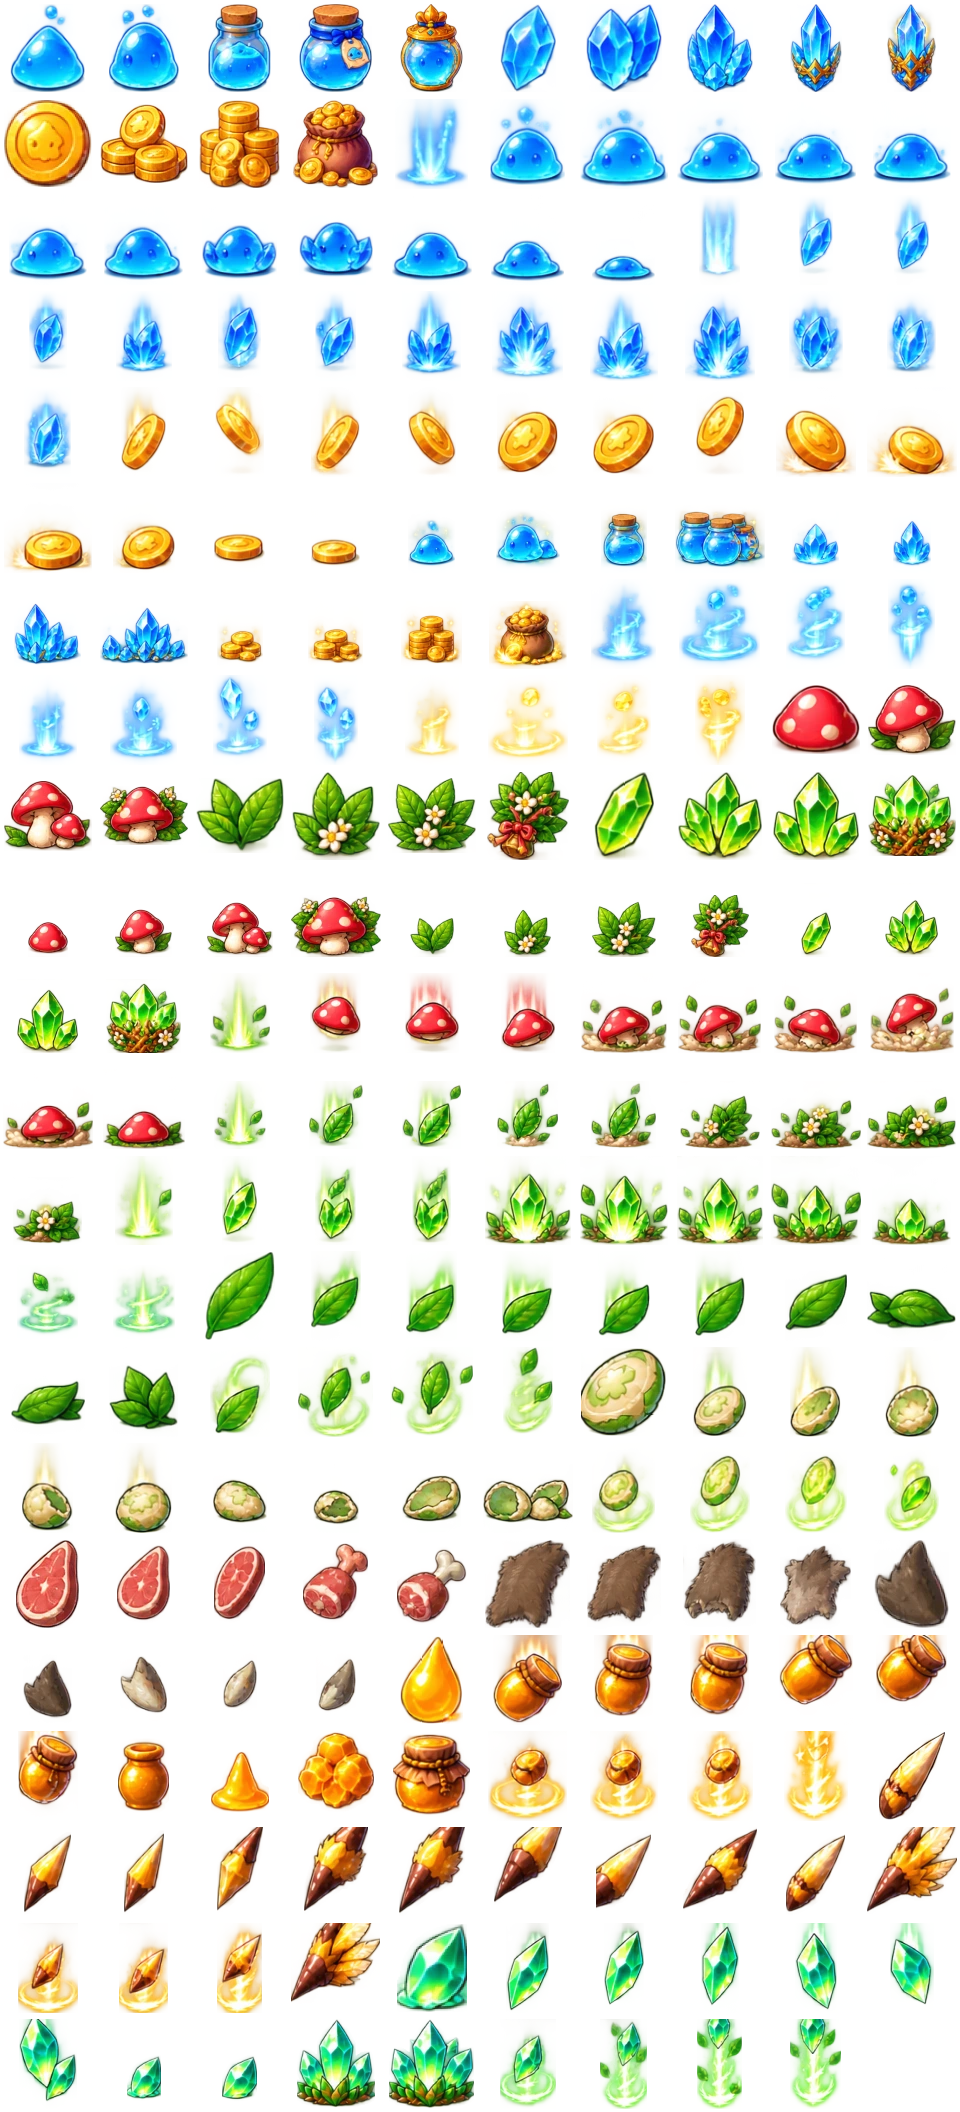
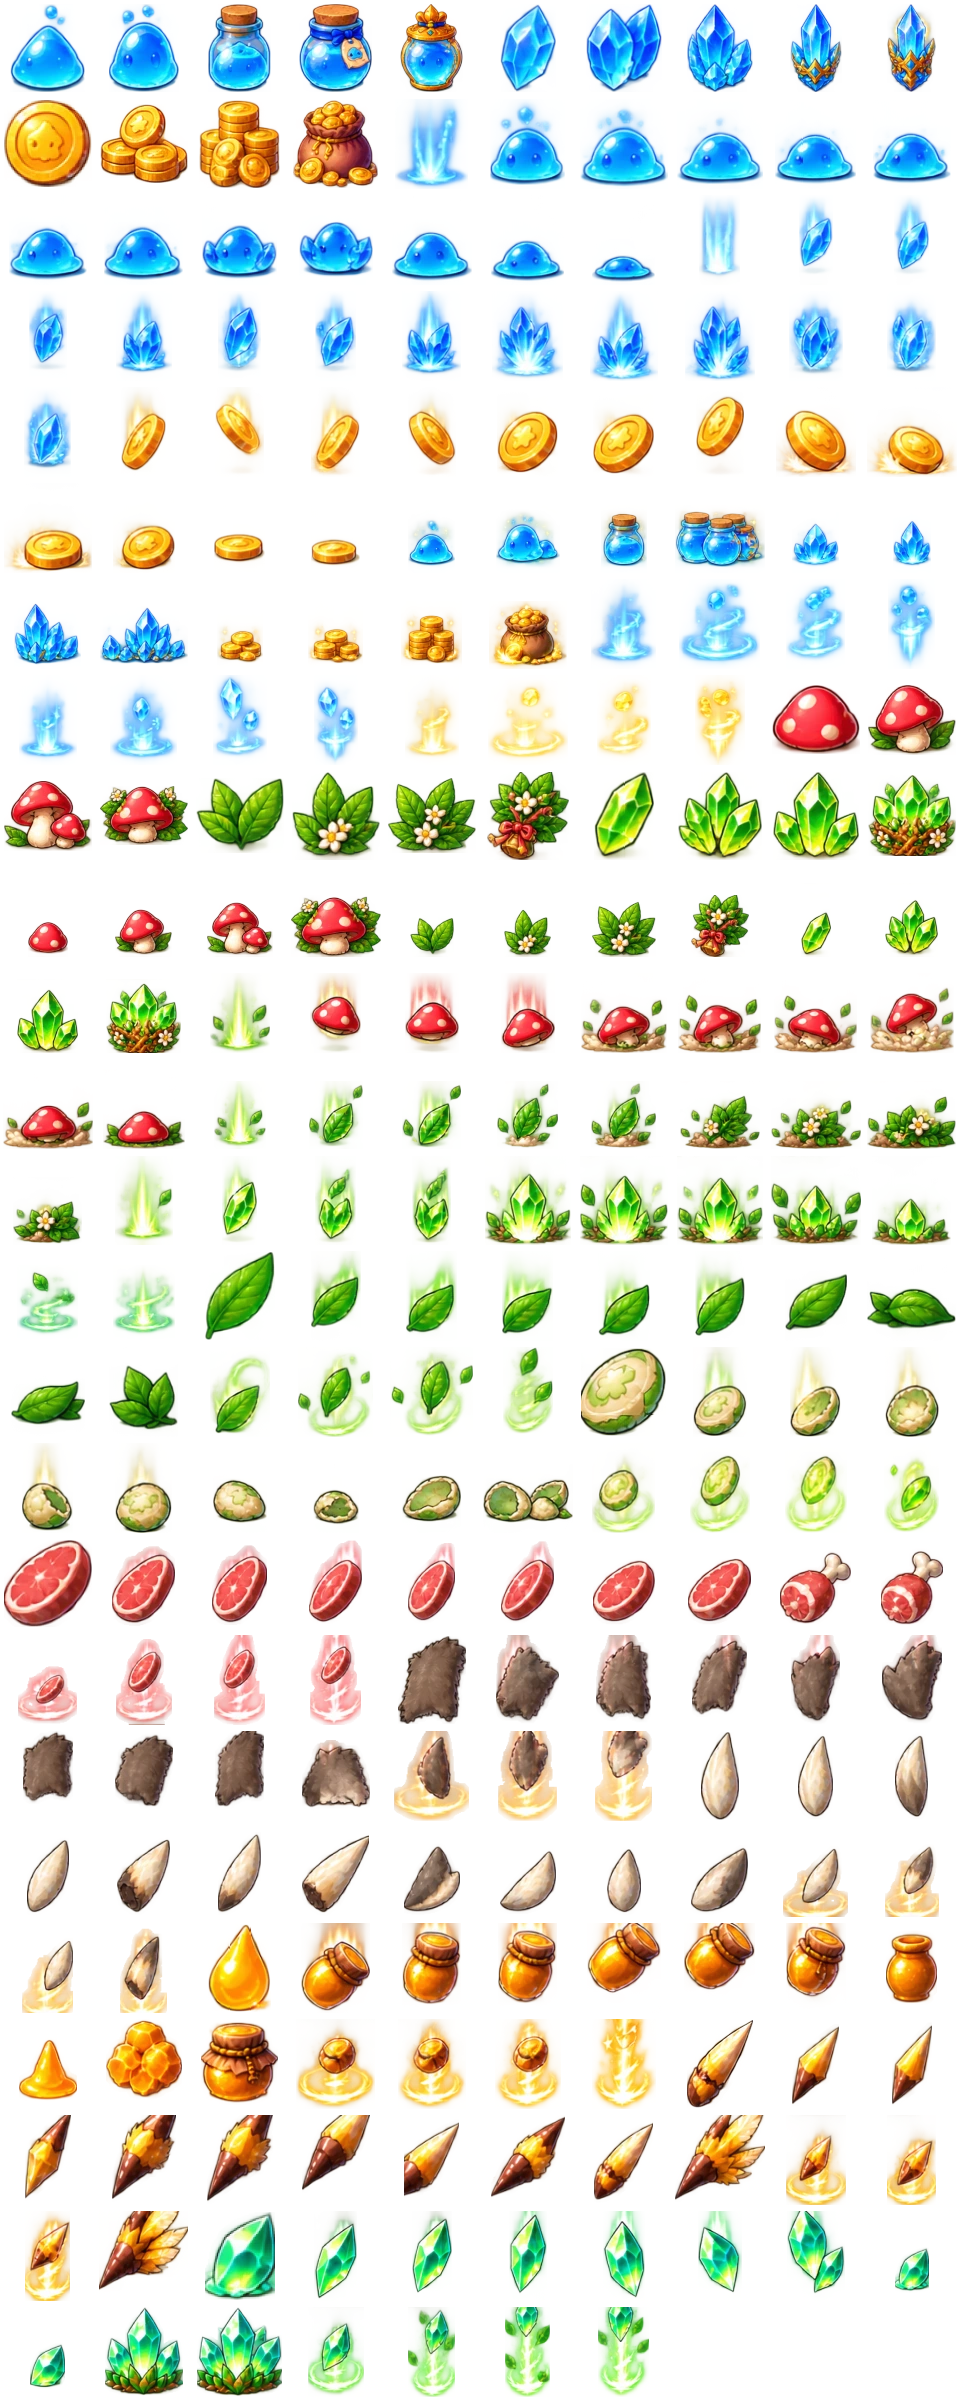
Boar loot from its own drop sheet
Boar Meat, Boar Hide and Boar Tusk get icons, falls, four piles by amount
and their own pick-up swirls, cut as separate shapes; the hide's icon is
from the row of big hides above the one that animates. Replaces the
stand-in from the panel under the boar's sheet; still one atlas file.

Claude-Session: https://claude.ai/code/session_01GHEvd1DiTaDeXZuyLJzC1x

diff --git a/shared/data/dropart.js b/shared/data/dropart.js
@@ -37,11 +37,11 @@ export const DROP_ART = {
       "leaf_1": 132,
       "shell_1": 146,
       "meat_1": 160,
-      "hide_1": 165,
-      "tusk_1": 169,
-      "honey_1": 174,
-      "stinger_1": 189,
-      "wcrystal_1": 204
+      "hide_1": 174,
+      "tusk_1": 187,
+      "honey_1": 202,
+      "stinger_1": 217,
+      "wcrystal_1": 232
     },
     "fall_jelly": [
       14,
@@ -122,29 +122,30 @@ export const DROP_ART = {
       "shell_2": 153,
       "shell_3": 154,
       "shell_4": 155,
-      "meat_1": 161,
-      "meat_2": 162,
-      "meat_3": 163,
-      "meat_4": 164,
-      "hide_1": 166,
-      "hide_2": 167,
-      "hide_3": 168,
-      "tusk_1": 170,
-      "tusk_2": 171,
-      "tusk_3": 172,
-      "tusk_4": 173,
-      "honey_2": 181,
-      "honey_1": 182,
-      "honey_3": 183,
-      "honey_4": 184,
-      "stinger_1": 196,
-      "stinger_2": 197,
-      "stinger_3": 198,
-      "stinger_4": 199,
-      "wcrystal_1": 211,
-      "wcrystal_2": 212,
-      "wcrystal_3": 213,
-      "wcrystal_4": 214
+      "meat_1": 166,
+      "meat_2": 167,
+      "meat_3": 168,
+      "meat_4": 169,
+      "hide_1": 180,
+      "hide_2": 181,
+      "hide_3": 182,
+      "hide_4": 183,
+      "tusk_1": 194,
+      "tusk_2": 195,
+      "tusk_3": 196,
+      "tusk_4": 197,
+      "honey_2": 209,
+      "honey_1": 210,
+      "honey_3": 211,
+      "honey_4": 212,
+      "stinger_1": 224,
+      "stinger_2": 225,
+      "stinger_3": 226,
+      "stinger_4": 227,
+      "wcrystal_1": 239,
+      "wcrystal_2": 240,
+      "wcrystal_3": 241,
+      "wcrystal_4": 242
     },
     "pickup": {
       "water": [
@@ -179,23 +180,40 @@ export const DROP_ART = {
         158,
         159
       ],
-      "honey": [
+      "meat": [
+        170,
+        171,
+        172,
+        173
+      ],
+      "hide": [
+        184,
         185,
-        186,
-        187,
-        188
+        186
+      ],
+      "tusk": [
+        198,
+        199,
+        200,
+        201
+      ],
+      "honey": [
+        213,
+        214,
+        215,
+        216
       ],
       "stinger": [
-        200,
-        201,
-        202,
-        203
+        228,
+        229,
+        230,
+        231
       ],
       "wcrystal": [
-        215,
-        216,
-        217,
-        218
+        243,
+        244,
+        245,
+        246
       ]
     },
     "fall_cap": [
@@ -246,29 +264,51 @@ export const DROP_ART = {
       150,
       151
     ],
-    "fall_honey": [
+    "fall_meat": [
+      161,
+      162,
+      163,
+      164,
+      165
+    ],
+    "fall_hide": [
       175,
       176,
       177,
       178,
-      179,
-      180
+      179
     ],
-    "fall_stinger": [
+    "fall_tusk": [
+      188,
+      189,
       190,
       191,
       192,
-      193,
-      194,
-      195
+      193
     ],
-    "fall_wcrystal": [
+    "fall_honey": [
+      203,
+      204,
       205,
       206,
       207,
-      208,
-      209,
-      210
+      208
+    ],
+    "fall_stinger": [
+      218,
+      219,
+      220,
+      221,
+      222,
+      223
+    ],
+    "fall_wcrystal": [
+      233,
+      234,
+      235,
+      236,
+      237,
+      238
     ]
   }
 };

diff --git a/shared/data/items.js b/shared/data/items.js
@@ -587,7 +587,7 @@ export const MATERIALS = {
   wind_crystal_s: M({ id: 'wind_crystal_s', name: 'Small Wind Crystal', nameTh: 'ผลึกลม (เล็ก)', value: 30, weight: 1,
     rarity: 'uncommon', art: DROP('wcrystal_1'), loot: 'wcrystal',
     desc: 'ผลึกสีเขียวมรกตที่มีลมหมุนอยู่ข้างใน เบาจนเกือบลอยได้' }),
-  // the boar's; pictures from the panel under its sheet until its drop sheet comes
+  // the boar's; cut from its drop sheet
   boar_meat: M({ id: 'boar_meat', name: 'Boar Meat', nameTh: 'เนื้อหมูป่า', value: 16, weight: 2, rarity: 'common',
     art: DROP('meat_1'), loot: 'meat',
     desc: 'เนื้อหมูป่าสด ๆ ชิ้นหนา พ่อครัวในเมืองรับซื้อเสมอ' }),

diff --git a/client/js/renderer.js b/client/js/renderer.js
@@ -45,7 +45,7 @@ const LOOT_FRAME_MS = 60;     // the fall (13 frames) is over in under a second
 // which colour of pick-up swirl each kind of loot goes up in, and for how long
 const PICKUP_SWIRL = { jelly: 'water', crystal: 'water', gold: 'gold', cap: 'nature', herb: 'nature', ncrystal: 'nature',
   leaf: 'leaf', shell: 'shell', honey: 'honey', stinger: 'stinger', wcrystal: 'wcrystal',
-  meat: 'gold', hide: 'gold', tusk: 'gold' };
+  meat: 'meat', hide: 'hide', tusk: 'tusk' };
 const PICKUP_MS = 480;
 /**
  * Where a painted monster is drawn relative to where it stands. A flyer

diff --git a/tools/slice-drops.py b/tools/slice-drops.py
@@ -72,15 +72,22 @@ SHEETS = [
     # The bee's: laid out like the caterpillar's. The piles on the ground lie
     # at a slant and share columns, so they are found as separate shapes; the
     # honey icon is the drop in the top row. Its wind crystal is green here.
-    # The boar's, from the panel under its animation sheet until its own drop
-    # sheet comes. Only three hides are drawn: the fourth pile is the third.
-    ('assets/mob/source/boar_sheet.png', 160, [
-        ('icon', (905, 1012), ['meat_1', None, None, None, None], 160, 531, {'blobs': True, 'thr': 150}),
-        ('ground', (905, 1012), ['meat_1', 'meat_2', 'meat_3', None, 'meat_4'], 160, 531, {'blobs': True, 'thr': 150}),
-        ('icon', (905, 1012), ['hide_1', None, None], 532, 802),
-        ('ground', (905, 1012), ['hide_1', 'hide_2', 'hide_3'], 532, 802),
-        ('icon', (905, 1012), ['tusk_1', None, None, None, None], 805, 1113),
-        ('ground', (905, 1012), ['tusk_1', 'tusk_2', None, 'tusk_3', 'tusk_4'], 805, 1113),
+    # The boar's: its labels sit under the pictures, and the hide has a row of
+    # big hides first (the icon comes from it) over the row that animates.
+    ('assets/ui/source/boar_drops.png', 205, [
+        ('icon', (150, 262), ['meat_1', None, None, None, None], 670, 1150, {'blobs': True, 'thr': 150}),
+        ('fall_meat', (150, 262), 5, 205, 690, {'blobs': True, 'thr': 150}),
+        ('ground', (150, 262), ['meat_1', 'meat_2', 'meat_3', None, 'meat_4'], 670, 1150, {'blobs': True, 'thr': 150}),
+        ('pickup', (150, 262), ['meat'] * 4, 1140, 1536, {'blobs': True, 'thr': 150}),
+        ('icon', (340, 470), ['hide_1', None, None, None], 205, 690, {'blobs': True, 'thr': 150}),
+        ('fall_hide', (525, 625), 5, 205, 675, {'blobs': True, 'thr': 150}),
+        ('ground', (525, 625), [None, 'hide_1', 'hide_2', None, 'hide_3', 'hide_4'], 675, 1205,
+         {'blobs': True, 'thr': 150}),
+        ('pickup', (525, 625), ['hide'] * 3, 1205, 1536, {'blobs': True, 'thr': 150}),
+        ('icon', (640, 750), ['tusk_1', None, None, None, None, None], 205, 700, {'blobs': True, 'thr': 150}),
+        ('fall_tusk', (640, 750), 6, 205, 700, {'blobs': True, 'thr': 150}),
+        ('ground', (640, 750), ['tusk_1', 'tusk_2', 'tusk_3', None, 'tusk_4'], 700, 1150, {'blobs': True, 'thr': 150}),
+        ('pickup', (640, 750), ['tusk'] * 4, 1150, 1536, {'blobs': True, 'thr': 150}),
     ]),
     ('assets/ui/source/bee_drops.png', 200, [
         ('icon', (40, 160), ['honey_1'], 850, 925),
